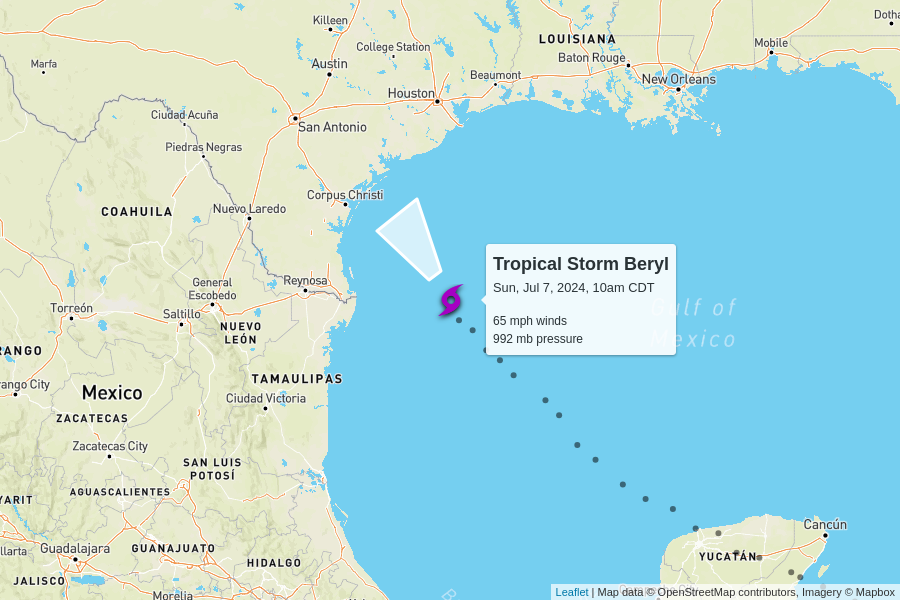
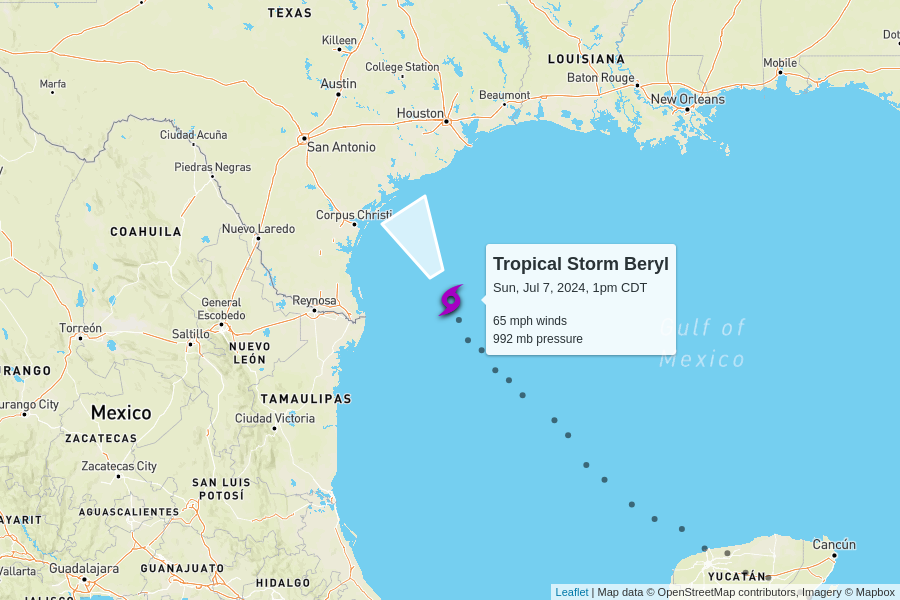
automatic update

diff --git a/docs/index.html b/docs/index.html
@@ -102,7 +102,7 @@
         <td colspan="6" class="storm category-0" >
           <h2>
             Tropical Storm Beryl
-            <p class="updated">last updated <span data-time>2024-07-07T15:00:00.000Z</span></p>
+            <p class="updated">last updated <span data-time>2024-07-07T18:00:00.000Z</span></p>
           </h2>
         </td>
       </tr>
@@ -117,12 +117,12 @@
       </tr>
       <tr>
         <td class="spacer"></td>
-        <td>65 mph<br>+5 mph since last update</td>
+        <td>65 mph<br>0 mph since last update</td>
         <td>992 mb<br>0 mb since last update</td>
         <td>
-          10 mph to the northwest
+          10 mph to the north-northwest
           <br/>
-          <span style="display: inline-block; font-size: 1.5em; transform: rotate(325deg);">↑</span>
+          <span style="display: inline-block; font-size: 1.5em; transform: rotate(330deg);">↑</span>
         </td>
         <td><a href="https://raw.githubusercontent.com/mgwalker/atlantic-hurricanes/main/data/csv/AL022024.csv">AL022024.csv</a></td>
         <td><a href="https://www.nhc.noaa.gov/archive/2024/BERYL.shtml?">NHC advisories</a></td>
